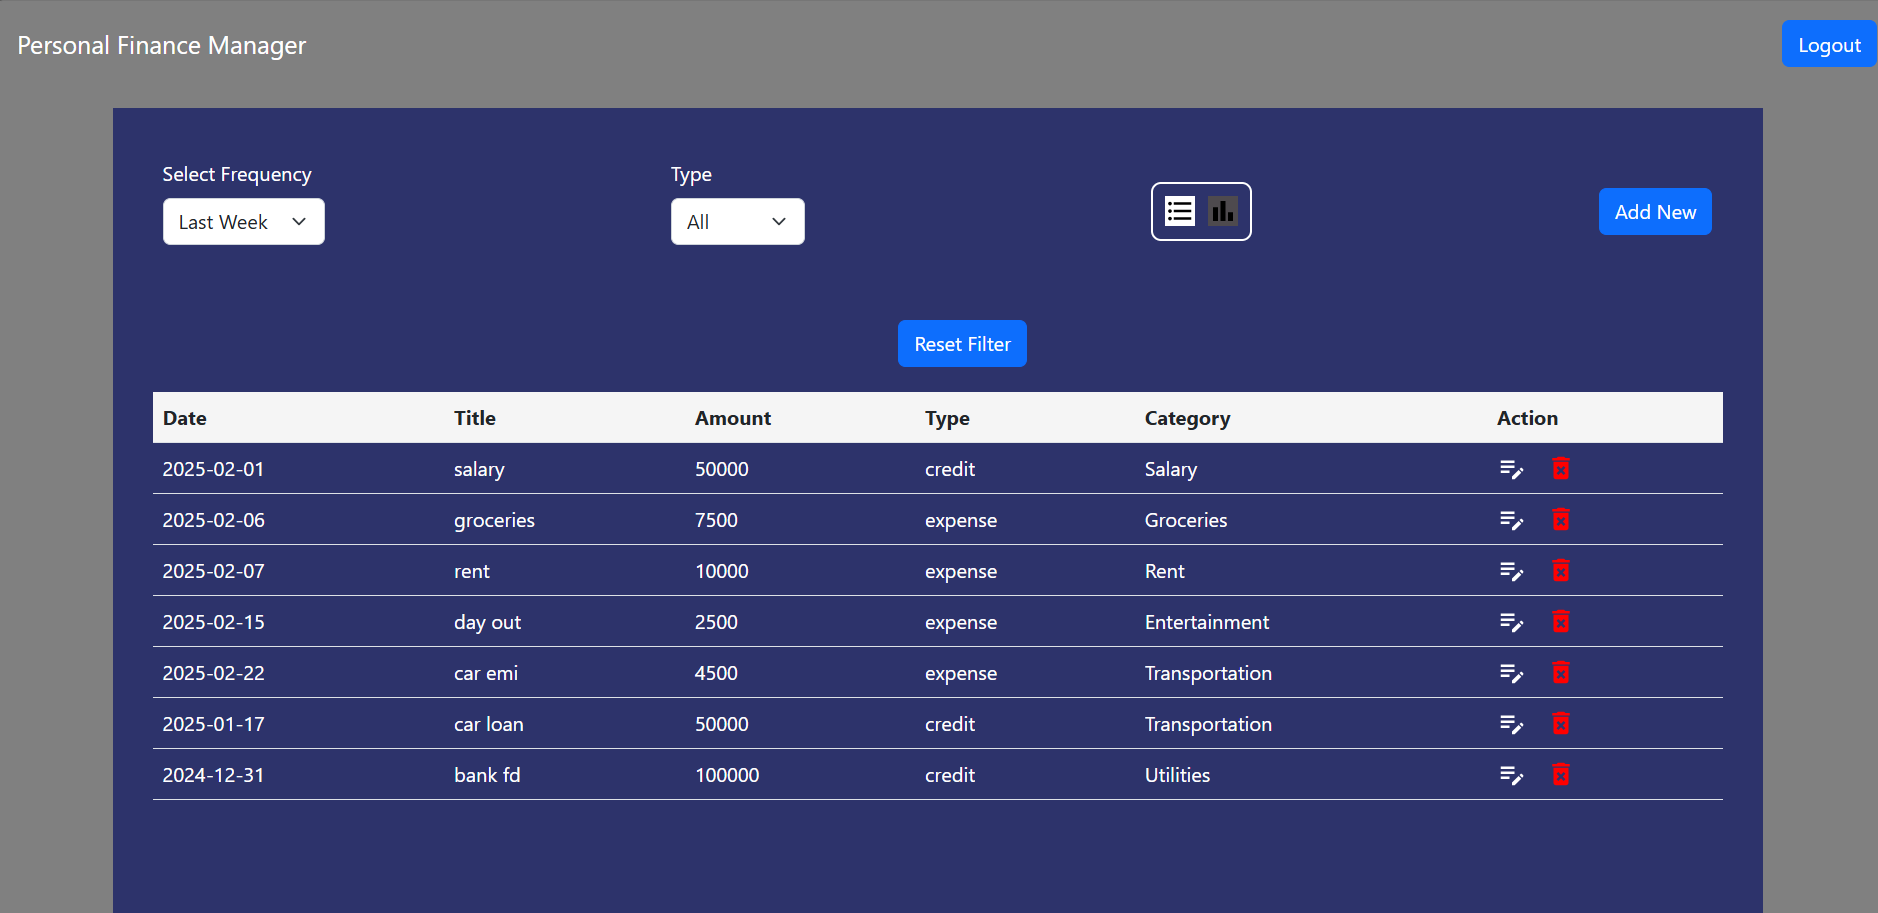
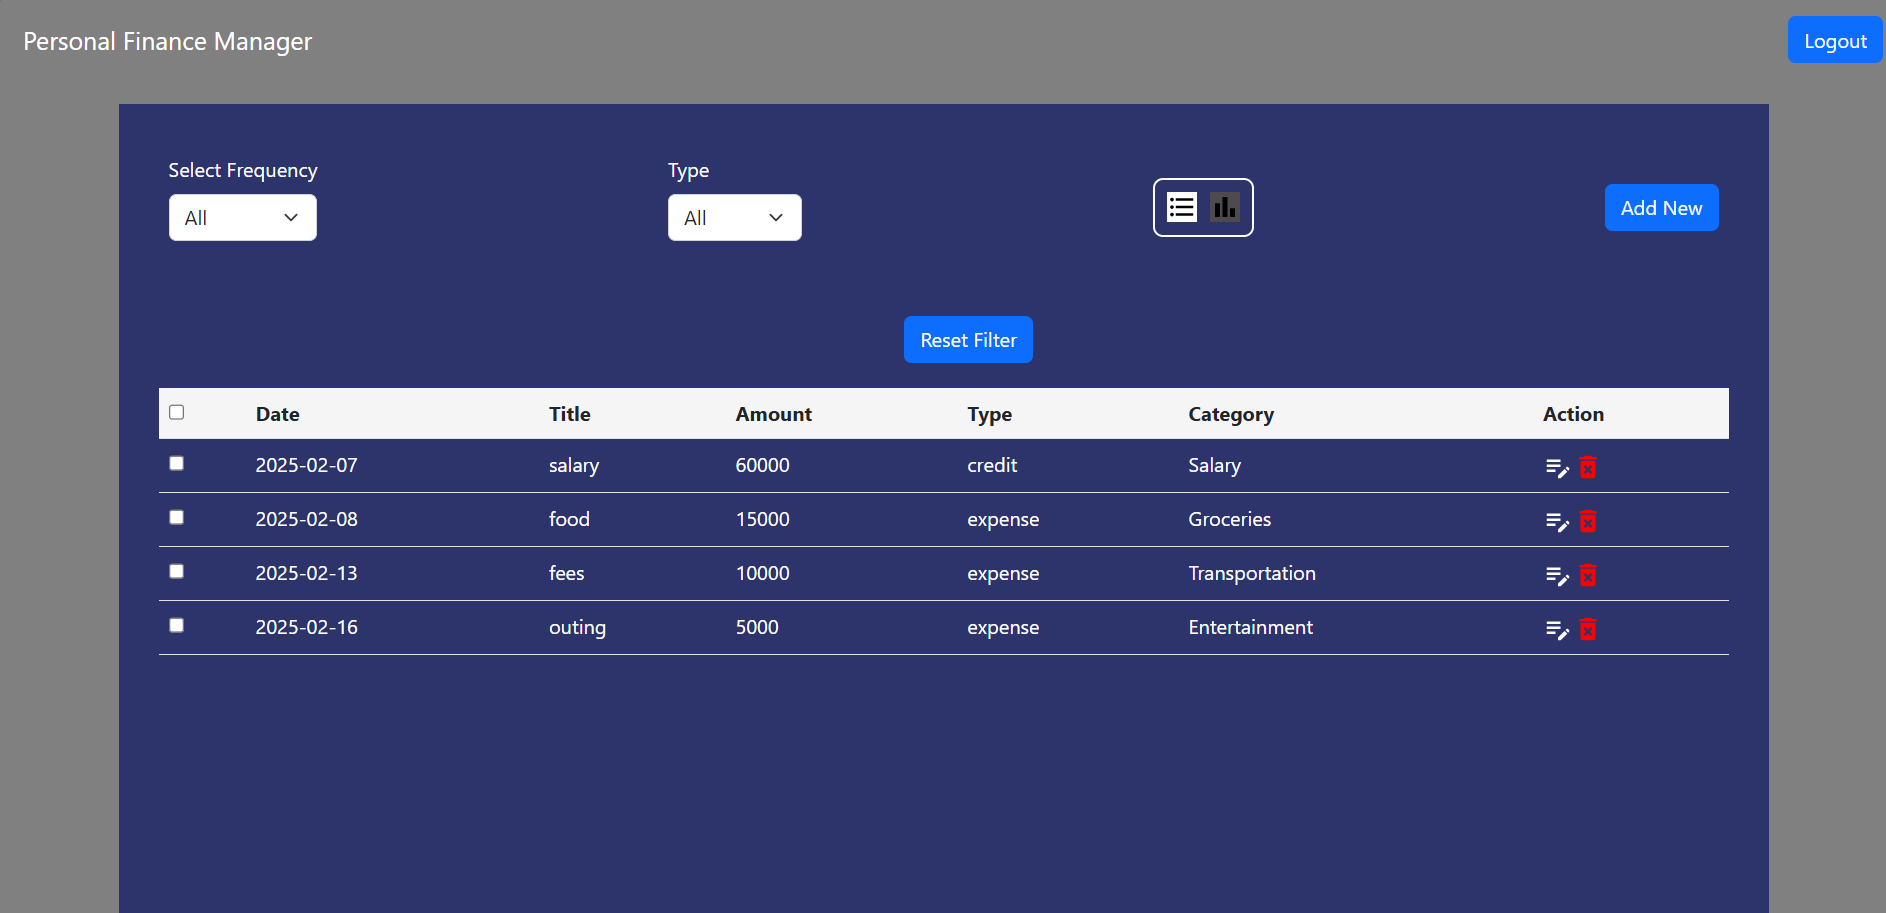
added the readme and changed ui of delete button

diff --git a/frontend/src/Pages/Home/TableData.js b/frontend/src/Pages/Home/TableData.js
@@ -371,19 +371,6 @@ const handleHardDelete = async (transactionId) => {
           />
         </Alert>
       )}
-        {selectedTransactions.length > 0 && (
-        <Button
-          variant="danger"
-          className="mb-3"
-          onClick={handleBulkDelete}
-        >
-          Delete Selected ({selectedTransactions.length})
-        </Button>
-      )}
-
-
-
-        
 
 <Table responsive="md" className="data-table">
   <thead>
@@ -432,6 +419,15 @@ const handleHardDelete = async (transactionId) => {
     )}
   </tbody>
 </Table>
+
+{selectedTransactions.length > 0 && (
+        <Button className="mb-3 text-center bg-blue-500 hover:bg-blue-700 text-white"
+          variant="primary"
+          onClick={handleBulkDelete}
+        >
+          Delete Selected ({selectedTransactions.length})
+        </Button>
+      )}
 
       </Container>
      

diff --git a/README.md b/README.md
@@ -4,17 +4,25 @@
 The **Personal Finance Manager** is a web application built using the **MERN stack** that helps users manage their income and expenses efficiently. It allows users to track their transactions, analyze financial trends using graphs, and apply filters for better insights.
 
 ## 🚀 Features
-- **User Authentication** (Sign Up, Login, Logout)
+- **User Authentication** (Sign Up, Login, Logout, Forgot Password, Reset Password)
 - **Dashboard Overview** of total income and expenses
-- **Add, Edit, Delete Transactions** (categorized by type)
+- **Add, Edit, Delete Transactions** (categorized by custom and type)
+- **Undo & Bulk Delete Transactions** for better control
 - **Real-time Graphs & Charts** for expense tracking
-- **Filter Transactions** by date range, category.
-- **Persistent Data Storage** using LocalStorage
+- **Filter Transactions** by date range, category
+- **Persistent Data Storage** using MongoDB
 - **Responsive Design** for mobile and desktop
 
 ## 🛠 Tech Stack
 - **Frontend**: React.js, Bootstrap
-- **Authentication**: JWT (or session-based auth)
+- **Backend**: Node.js, Express.js
+- **Database**: MongoDB (previously used LocalStorage, now fully migrated to MongoDB)
+- **Authentication**: JWT (JSON Web Token) & Secure Password Hashing
+
+## 🔐 Security Features
+- **Forgot Password & Reset Password** functionality added
+- **Secure authentication** with JWT
+- **Password encryption** using bcrypt
 
 ## 📸 Screenshots
 ### **1. Login Page**
@@ -23,22 +31,35 @@ The **Personal Finance Manager** is a web application built using the **MERN sta
 ### **2. Register Page**
 ![Register](https://github.com/Greeshma-10/personal_finance_manager/blob/main/docs/register.png?raw=true)
 
-### **3. Dashboard**
+### **3. Forgot Password Page**
+![Forgot Password](https://github.com/Greeshma-10/personal_finance_manager/blob/main/docs/forgot.png?raw=true)
+
+### **4. Reset Password Page**
+![Reset Password](https://github.com/Greeshma-10/personal_finance_manager/blob/main/docs/reset.png?raw=true)
+
+### **5. Dashboard**
 ![Dashboard](https://github.com/Greeshma-10/personal_finance_manager/blob/main/docs/dashboard.png?raw=true)
 
-### **4. Analytics & Graphs**
+### **6. Analytics & Graphs**
 ![Analytics](https://github.com/Greeshma-10/personal_finance_manager/blob/main/docs/analytics.png?raw=true)
 ![Analytics](https://github.com/Greeshma-10/personal_finance_manager/blob/main/docs/graphs.png?raw=true)
 
-### **5. Transaction Filters**
+### **7. Transaction Filters**
 ![Filters](https://github.com/Greeshma-10/personal_finance_manager/blob/main/docs/filter.png?raw=true)
 
+### **8. Multiple Deletion and undo Feature**
+![Multiple Deletion](https://github.com/Greeshma-10/personal_finance_manager/blob/main/docs/multiple.png?raw=true)
+![Undo](https://github.com/Greeshma-10/personal_finance_manager/blob/main/docs/undo.png?raw=true)
+
 ## 💡 Usage
-1. **Sign Up or Login** to your account.
+1. **Sign Up or Login** to your account as well as reset your password.
 2. **Add Transactions** with categories like Food, Travel, Salary, etc.
 3. **View Dashboard** for a summary of income and expenses.
 4. **Apply Filters** to analyze transactions.
 5. **Check Graphs & Reports** for insights.
+6. **Undo Deleted Transactions** if needed.
+7. **Permanently Delete Transactions** in bulk with a confirmation prompt.
 
 ## ⭐ Show Your Support
 If you found this project useful, please give it a ⭐ on GitHub!
+
